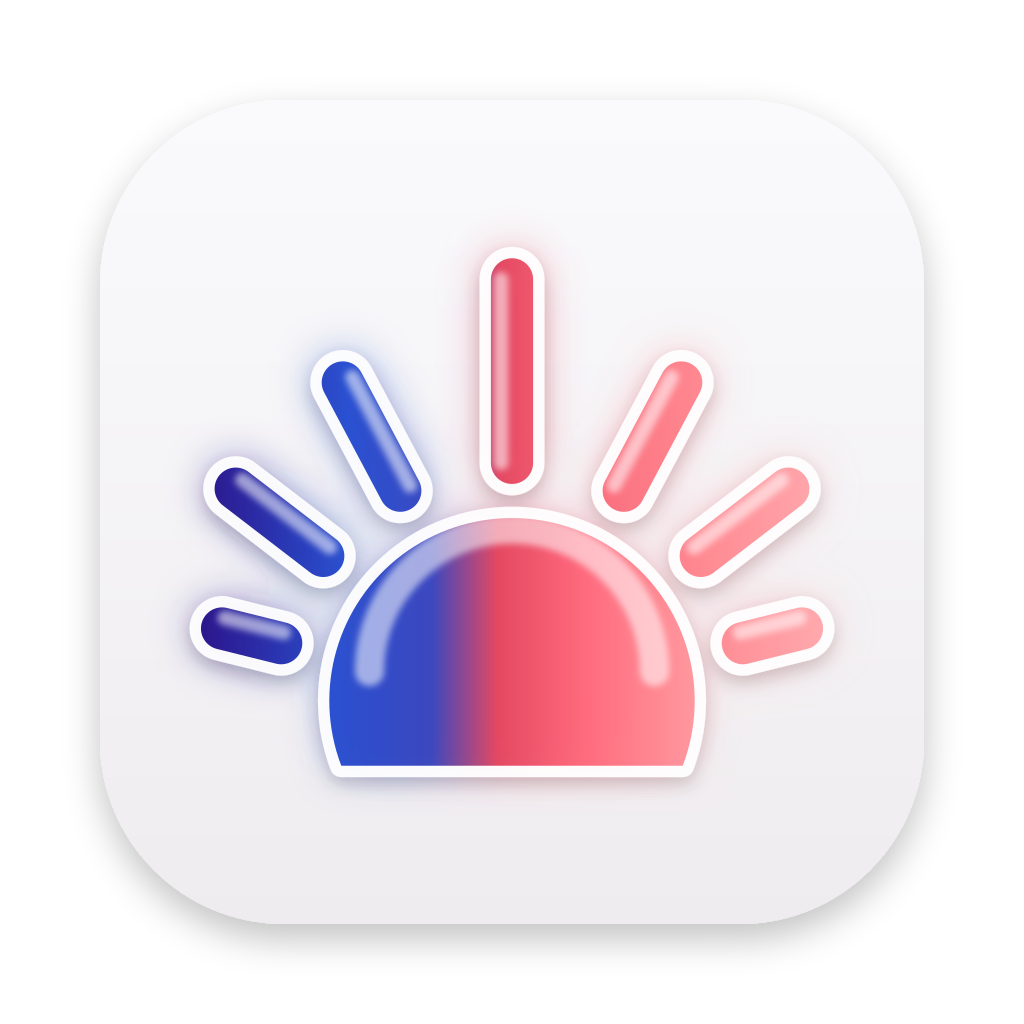
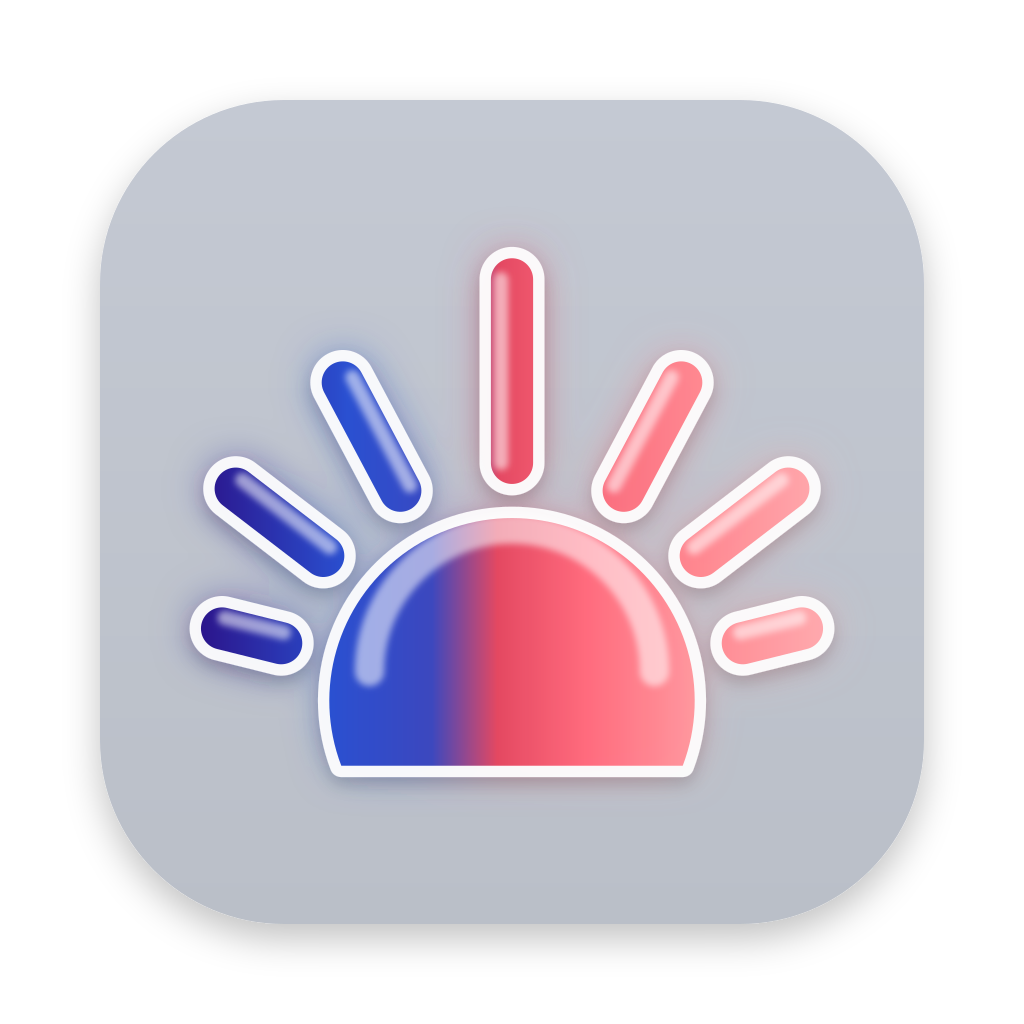
Put Sunrise Spectrum on Arc's gray tile
The owner asked for Spectrum's tile to use the gray Arc's icon sits on in
the Dock instead of near-white. Arc's asset catalog carries no tile color,
so the gray was sampled from the owner's Dock screenshot (about #BCC2CC
mid-tile). An Icon Composer fill of #C3C9D2 renders at about #BEC3CD there;
the flat fallback's tile is sampled from that render. Dark keeps its
near-black tile, and Amber keeps its cream.

diff --git a/src/main/app-icon-assets.js b/src/main/app-icon-assets.js
@@ -44,10 +44,11 @@ module.exports = {
   },
   // Sunrise Spectrum and Sunrise Amber: the Sunrise redrawn as a sun and
   // heavy rounded rays with no water lines, each a colored glass layer over a
-  // white rim, on a pale tile that macOS darkens in Dark. Spectrum runs deep blue
-  // through red to light pink, Amber is bronze. Their layers live in
+  // white rim, on a tile that macOS darkens in Dark. Spectrum runs deep blue
+  // through red to light pink on the cool gray Arc's icon sits on in the
+  // Dock; Amber is bronze on a warm cream. Their layers live in
   // build/app-icons/colorways (npm run brand:build).
-  'sunrise-spectrum': colorwayDefinition('SunriseSpectrum', 'spectrum', '#FBFAFD', '#3A3942'),
+  'sunrise-spectrum': colorwayDefinition('SunriseSpectrum', 'spectrum', '#C3C9D2', '#3A3942'),
   'sunrise-amber': colorwayDefinition('SunriseAmber', 'amber', '#FFF7EC', '#2E261C'),
 };
 

diff --git a/test/unit/app-icon.test.js b/test/unit/app-icon.test.js
@@ -114,7 +114,7 @@ test('Sunrise Spectrum and Amber stack a glass sun and rays over a white rim', (
     assert.equal(definition.nativeName, nativeName);
     assert.equal(definition.darkFlatIcon, `${id}-dark`);
     const document = createIconDocument(definition);
-    // A pale fill that Icon Composer darkens itself in Dark, unlike Gold's tiles.
+    // A light fill that Icon Composer darkens itself in Dark, unlike Gold's tiles.
     assert.equal(document['fill-specializations'][0].appearance, 'dark');
     assert.equal(document.groups.length, 2);
     const [mark, rim] = document.groups;

diff --git a/scripts/app-icon-colorways.js b/scripts/app-icon-colorways.js
@@ -47,7 +47,7 @@ const COLORWAYS = {
   spectrum: {
     rays: [[0, '#1A007F'], [0.24, '#1942CD'], [0.4, '#2C39B9'], [0.48, '#E23A55'], [0.6, '#F95B6E'], [0.8, '#FF7F88'], [1, '#FFA3A8']],
     sun: [[0, '#1942CD'], [0.28, '#2C39B9'], [0.46, '#E23A55'], [0.7, '#FF5F73'], [1, '#FF8F96']],
-    tile: ['#FAFAFC', '#EFECEF'],
+    tile: ['#C4C9D3', '#BABFC8'],
   },
   amber: {
     rays: [[0, '#B8692A'], [0.3, '#CD8530'], [0.5, '#D9A040'], [0.7, '#CD8530'], [1, '#B8692A']],

diff --git a/AGENTS.md b/AGENTS.md
@@ -176,7 +176,7 @@ a v0 mirror of the focused window so a rollback to 1.0.x keeps tabs).
 
 **Address input normalization** (`normalizeAddressInput()` in `main.js`) is a deliberately simple regex heuristic — has-a-scheme, looks-like-localhost, looks-like-a-domain, else treat as a search query against the engine selected in Settings (DuckDuckGo/Google/Bing/Brave/Kagi, or a custom address with `%s` stored in `searchEngineTemplate`; every search path resolves it through `settings.currentSearchEngine()`). It will misclassify some edge cases (e.g. paths with dots in query strings); that's a known, accepted limitation, not a bug to silently "fix" with a heavier URL parser unless asked. `handOffToOs()` (also in `main.js`) is checked ahead of it wherever a URL becomes a navigation target — page-initiated navigation, `window.open` children, the context menu's "Open Link" actions, and the address bar's raw typed text before `normalizeAddressInput()` ever sees it — so a bare `mailto:`/`tel:`/`facetime:`/`sms:` URI (which has no `://` and would otherwise be misread as a search query or a bogus domain) is handed to the OS instead. The same guard refuses page-initiated `chrome-extension:` navigation, even in inner frames, with one exception: Chromium's built-in PDF viewer (`chrome-extension://mhjfbmdgcfjbbpaeojofohoefgiehjai`, `PDF_VIEWER_ORIGIN` in `blocking-resources.js`) loads each document into a child frame from its own origin, so `installExternalNavigationHandlers` lets through exactly that viewer-initiated load, and `isBrowserResource()` counts the viewer's files as browser resources for both blockers. Refusing either leaves every PDF an empty viewer (the guard's refusal shipped in v1.20.0; fixed October 2026); `npm run test:pdf-viewer:desktop` (the browser-shortcuts CI job) fails if either regresses.
 
-**App icon:** macOS uses the Icon Composer artwork under `build/app-icons/`. Its selectable catalog is Sunrise, Sunrise Dark, Sunrise Gold, Sunrise Spectrum and Sunrise Amber; Sunrise is the default. Sunrise Gold is a cream glass mark over gold image layers, soft gold in Light and a polished metallic gold in Dark (a `hidden-specializations` swap, because Icon Composer darkens a plain fill by itself in Dark), all generated by `brand:build` into `build/app-icons/colorways/` and compiled by `after-pack-app-icons.js`; its flat fallbacks are `icon-sunrise-gold.png` and `icon-sunrise-gold-dark.png`, chosen by each definition's `darkFlatIcon`. In the live Dock a named stack follows Light and Dark, but only the bundle icon follows the Clear and Tinted icon styles, so in those styles (read from `AppleIconAppearanceTheme`, rechecked on activation and every 10 s) and for Sunrise itself `app-icon.js` clears the custom image with `dock.setIcon(null)` rather than loading a stack by name, which would freeze it. Gold is macOS-only (spec `docs/superpowers/specs/2026-10-19-sunrise-gold-icon-design.md`). Sunrise Spectrum (deep blue through red to light pink, after Arc's palette) and Sunrise Amber (bronze), requested by the owner on October 23, 2026 to sit closer to Arc's glass icon, redraw the Sunrise as a risen sun and seven heavy rounded rays, with the rays on the shipped artwork's proportions and no water lines (the owner's choices, so the sun reads larger): the sun and rays are two colored glass layers (`createIconDocument`'s `extraLayers`) over a white rim group (`rimImageName`, hidden in Tinted) on a pale fill that Icon Composer darkens in Dark. `scripts/app-icon-colorways.js` draws them and their flat fallbacks for `brand:build`; it is the one Sunrise surface not derived from the master below, by design. They are macOS-only too: the owner saw Windows and Linux drafts and kept them off those platforms for the switching limits described below (spec `docs/superpowers/specs/2026-10-23-sunrise-spectrum-amber-icons-design.md`). Every Sunrise surface (the macOS icon layer, the Windows, Linux and iOS icons, in-app marks, website favicons, logo, press kit and share cards) derives from the vector `assets/sunrise-mark.svg`, the owner's redraw of October 15, 2026, through `assets/sunrise-mark-4096.png`; `brand:build` renders that master only when writing and `assets/sunrise-mark.lock.json` pins both files, because librsvg output differs between platforms. Ink versions close the artwork's hairline between the disc and the top horizon bar. Windows uses the freestanding Sunrise mark from `build/app-icons/Icon.icon/Assets/sunrise-mark.png`; `npm run icons:windows:build` omits its three shortest reflection lines and produces the committed nine-frame (16–256px) `build/windows-icons/icon-sunrise.ico`. `icons:windows:check` guards those bytes, and `win.icon` embeds it into the executable and installed shortcut. Windows has no selectable icon catalog, deliberately: an October 19, 2026 VM spike (`docs/research/windows-runtime-app-icon-spike-2026-10-19.md`) found that only rewriting the installer-owned shortcuts changes the taskbar icon, and the owner chose to keep Sunrise Gold Mac-only and leave Windows as it is. Linux packages `build/icon.png`, a byte-copy of `assets/sunrise-app-icon.png`, which `npm run brand:build` also generates. Mark scale is not portable between compositions: the flat Dock PNGs in `src/renderer/pages/` (the `dock.setIcon` fallback for unpackaged and pre-macOS-26 runs) draw an 824px tile inset 100px into a 1024 canvas, while macOS paints the Icon Composer tile full-bleed, so `sunrise-mark.png` matches the flat mark's share of the visible tile rather than its canvas size; `test/unit/app-icon.test.js` fails if the two drift apart. Legacy B-monogram choices are retired: stale saved ids sanitize to Sunrise, and retired page-icon assets are excluded from the package. The B motif inside Mahjong tile artwork is an intentional nod to Blanc's origins and must remain. Retired source art must not be exposed in Settings, accepted as a saved choice, or compiled into the adaptive catalog unless the product decision changes again.
+**App icon:** macOS uses the Icon Composer artwork under `build/app-icons/`. Its selectable catalog is Sunrise, Sunrise Dark, Sunrise Gold, Sunrise Spectrum and Sunrise Amber; Sunrise is the default. Sunrise Gold is a cream glass mark over gold image layers, soft gold in Light and a polished metallic gold in Dark (a `hidden-specializations` swap, because Icon Composer darkens a plain fill by itself in Dark), all generated by `brand:build` into `build/app-icons/colorways/` and compiled by `after-pack-app-icons.js`; its flat fallbacks are `icon-sunrise-gold.png` and `icon-sunrise-gold-dark.png`, chosen by each definition's `darkFlatIcon`. In the live Dock a named stack follows Light and Dark, but only the bundle icon follows the Clear and Tinted icon styles, so in those styles (read from `AppleIconAppearanceTheme`, rechecked on activation and every 10 s) and for Sunrise itself `app-icon.js` clears the custom image with `dock.setIcon(null)` rather than loading a stack by name, which would freeze it. Gold is macOS-only (spec `docs/superpowers/specs/2026-10-19-sunrise-gold-icon-design.md`). Sunrise Spectrum (deep blue through red to light pink, after Arc's palette) and Sunrise Amber (bronze), requested by the owner on October 23, 2026 to sit closer to Arc's glass icon, redraw the Sunrise as a risen sun and seven heavy rounded rays, with the rays on the shipped artwork's proportions and no water lines (the owner's choices, so the sun reads larger): the sun and rays are two colored glass layers (`createIconDocument`'s `extraLayers`) over a white rim group (`rimImageName`, hidden in Tinted) on a light fill that Icon Composer darkens in Dark (Spectrum's is the cool gray `#C3C9D2` Arc's icon sits on in the Dock, Amber's a warm cream). `scripts/app-icon-colorways.js` draws them and their flat fallbacks for `brand:build`; it is the one Sunrise surface not derived from the master below, by design. They are macOS-only too: the owner saw Windows and Linux drafts and kept them off those platforms for the switching limits described below (spec `docs/superpowers/specs/2026-10-23-sunrise-spectrum-amber-icons-design.md`). Every Sunrise surface (the macOS icon layer, the Windows, Linux and iOS icons, in-app marks, website favicons, logo, press kit and share cards) derives from the vector `assets/sunrise-mark.svg`, the owner's redraw of October 15, 2026, through `assets/sunrise-mark-4096.png`; `brand:build` renders that master only when writing and `assets/sunrise-mark.lock.json` pins both files, because librsvg output differs between platforms. Ink versions close the artwork's hairline between the disc and the top horizon bar. Windows uses the freestanding Sunrise mark from `build/app-icons/Icon.icon/Assets/sunrise-mark.png`; `npm run icons:windows:build` omits its three shortest reflection lines and produces the committed nine-frame (16–256px) `build/windows-icons/icon-sunrise.ico`. `icons:windows:check` guards those bytes, and `win.icon` embeds it into the executable and installed shortcut. Windows has no selectable icon catalog, deliberately: an October 19, 2026 VM spike (`docs/research/windows-runtime-app-icon-spike-2026-10-19.md`) found that only rewriting the installer-owned shortcuts changes the taskbar icon, and the owner chose to keep Sunrise Gold Mac-only and leave Windows as it is. Linux packages `build/icon.png`, a byte-copy of `assets/sunrise-app-icon.png`, which `npm run brand:build` also generates. Mark scale is not portable between compositions: the flat Dock PNGs in `src/renderer/pages/` (the `dock.setIcon` fallback for unpackaged and pre-macOS-26 runs) draw an 824px tile inset 100px into a 1024 canvas, while macOS paints the Icon Composer tile full-bleed, so `sunrise-mark.png` matches the flat mark's share of the visible tile rather than its canvas size; `test/unit/app-icon.test.js` fails if the two drift apart. Legacy B-monogram choices are retired: stale saved ids sanitize to Sunrise, and retired page-icon assets are excluded from the package. The B motif inside Mahjong tile artwork is an intentional nod to Blanc's origins and must remain. Retired source art must not be exposed in Settings, accepted as a saved choice, or compiled into the adaptive catalog unless the product decision changes again.
 
 ## Cross-platform parity infrastructure (`spec/`, `tokens/`, `settings-schema/`, `copy/`, `test/desktop/`)
 

diff --git a/CLAUDE.md b/CLAUDE.md
@@ -160,7 +160,7 @@ a v0 mirror of the focused window so a rollback to 1.0.x keeps tabs).
 
 **Address input normalization** (`normalizeAddressInput()` in `main.js`) is a deliberately simple regex heuristic — has-a-scheme, looks-like-localhost, looks-like-a-domain, else treat as a search query against the engine selected in Settings (DuckDuckGo/Google/Bing/Brave/Kagi, or a custom address with `%s` stored in `searchEngineTemplate`; every search path resolves it through `settings.currentSearchEngine()`). It will misclassify some edge cases (e.g. paths with dots in query strings); that's a known, accepted limitation, not a bug to silently "fix" with a heavier URL parser unless asked. `handOffToOs()` (also in `main.js`) is checked ahead of it wherever a URL becomes a navigation target — page-initiated navigation, `window.open` children, the context menu's "Open Link" actions, and the address bar's raw typed text before `normalizeAddressInput()` ever sees it — so a bare `mailto:`/`tel:`/`facetime:`/`sms:` URI (which has no `://` and would otherwise be misread as a search query or a bogus domain) is handed to the OS instead. The same guard refuses page-initiated `chrome-extension:` navigation, even in inner frames, with one exception: Chromium's built-in PDF viewer (`chrome-extension://mhjfbmdgcfjbbpaeojofohoefgiehjai`, `PDF_VIEWER_ORIGIN` in `blocking-resources.js`) loads each document into a child frame from its own origin, so `installExternalNavigationHandlers` lets through exactly that viewer-initiated load, and `isBrowserResource()` counts the viewer's files as browser resources for both blockers. Refusing either leaves every PDF an empty viewer (the guard's refusal shipped in v1.20.0; fixed October 2026); `npm run test:pdf-viewer:desktop` (the browser-shortcuts CI job) fails if either regresses.
 
-**App icon:** macOS uses the Icon Composer artwork under `build/app-icons/`. Its selectable catalog is Sunrise, Sunrise Dark, Sunrise Gold, Sunrise Spectrum and Sunrise Amber; Sunrise is the default. Sunrise Gold is a cream glass mark over gold image layers, soft gold in Light and a polished metallic gold in Dark (a `hidden-specializations` swap, because Icon Composer darkens a plain fill by itself in Dark), all generated by `brand:build` into `build/app-icons/colorways/` and compiled by `after-pack-app-icons.js`; its flat fallbacks are `icon-sunrise-gold.png` and `icon-sunrise-gold-dark.png`, chosen by each definition's `darkFlatIcon`. In the live Dock a named stack follows Light and Dark, but only the bundle icon follows the Clear and Tinted icon styles, so in those styles (read from `AppleIconAppearanceTheme`, rechecked on activation and every 10 s) and for Sunrise itself `app-icon.js` clears the custom image with `dock.setIcon(null)` rather than loading a stack by name, which would freeze it. Gold is macOS-only (spec `docs/superpowers/specs/2026-10-19-sunrise-gold-icon-design.md`). Sunrise Spectrum (deep blue through red to light pink, after Arc's palette) and Sunrise Amber (bronze), requested by the owner on October 23, 2026 to sit closer to Arc's glass icon, redraw the Sunrise as a risen sun and seven heavy rounded rays, with the rays on the shipped artwork's proportions and no water lines (the owner's choices, so the sun reads larger): the sun and rays are two colored glass layers (`createIconDocument`'s `extraLayers`) over a white rim group (`rimImageName`, hidden in Tinted) on a pale fill that Icon Composer darkens in Dark. `scripts/app-icon-colorways.js` draws them and their flat fallbacks for `brand:build`; it is the one Sunrise surface not derived from the master below, by design. They are macOS-only too: the owner saw Windows and Linux drafts and kept them off those platforms for the switching limits described below (spec `docs/superpowers/specs/2026-10-23-sunrise-spectrum-amber-icons-design.md`). Every Sunrise surface (the macOS icon layer, the Windows, Linux and iOS icons, in-app marks, website favicons, logo, press kit and share cards) derives from the vector `assets/sunrise-mark.svg`, the owner's redraw of October 15, 2026, through `assets/sunrise-mark-4096.png`; `brand:build` renders that master only when writing and `assets/sunrise-mark.lock.json` pins both files, because librsvg output differs between platforms. Ink versions close the artwork's hairline between the disc and the top horizon bar. Windows uses the freestanding Sunrise mark from `build/app-icons/Icon.icon/Assets/sunrise-mark.png`; `npm run icons:windows:build` omits its three shortest reflection lines and produces the committed nine-frame (16–256px) `build/windows-icons/icon-sunrise.ico`. `icons:windows:check` guards those bytes, and `win.icon` embeds it into the executable and installed shortcut. Windows has no selectable icon catalog, deliberately: an October 19, 2026 VM spike (`docs/research/windows-runtime-app-icon-spike-2026-10-19.md`) found that only rewriting the installer-owned shortcuts changes the taskbar icon, and the owner chose to keep Sunrise Gold Mac-only and leave Windows as it is. Linux packages `build/icon.png`, a byte-copy of `assets/sunrise-app-icon.png`, which `npm run brand:build` also generates. Mark scale is not portable between compositions: the flat Dock PNGs in `src/renderer/pages/` (the `dock.setIcon` fallback for unpackaged and pre-macOS-26 runs) draw an 824px tile inset 100px into a 1024 canvas, while macOS paints the Icon Composer tile full-bleed, so `sunrise-mark.png` matches the flat mark's share of the visible tile rather than its canvas size; `test/unit/app-icon.test.js` fails if the two drift apart. Legacy B-monogram choices are retired: stale saved ids sanitize to Sunrise, and retired page-icon assets are excluded from the package. The B motif inside Mahjong tile artwork is an intentional nod to Blanc's origins and must remain. Retired source art must not be exposed in Settings, accepted as a saved choice, or compiled into the adaptive catalog unless the product decision changes again.
+**App icon:** macOS uses the Icon Composer artwork under `build/app-icons/`. Its selectable catalog is Sunrise, Sunrise Dark, Sunrise Gold, Sunrise Spectrum and Sunrise Amber; Sunrise is the default. Sunrise Gold is a cream glass mark over gold image layers, soft gold in Light and a polished metallic gold in Dark (a `hidden-specializations` swap, because Icon Composer darkens a plain fill by itself in Dark), all generated by `brand:build` into `build/app-icons/colorways/` and compiled by `after-pack-app-icons.js`; its flat fallbacks are `icon-sunrise-gold.png` and `icon-sunrise-gold-dark.png`, chosen by each definition's `darkFlatIcon`. In the live Dock a named stack follows Light and Dark, but only the bundle icon follows the Clear and Tinted icon styles, so in those styles (read from `AppleIconAppearanceTheme`, rechecked on activation and every 10 s) and for Sunrise itself `app-icon.js` clears the custom image with `dock.setIcon(null)` rather than loading a stack by name, which would freeze it. Gold is macOS-only (spec `docs/superpowers/specs/2026-10-19-sunrise-gold-icon-design.md`). Sunrise Spectrum (deep blue through red to light pink, after Arc's palette) and Sunrise Amber (bronze), requested by the owner on October 23, 2026 to sit closer to Arc's glass icon, redraw the Sunrise as a risen sun and seven heavy rounded rays, with the rays on the shipped artwork's proportions and no water lines (the owner's choices, so the sun reads larger): the sun and rays are two colored glass layers (`createIconDocument`'s `extraLayers`) over a white rim group (`rimImageName`, hidden in Tinted) on a light fill that Icon Composer darkens in Dark (Spectrum's is the cool gray `#C3C9D2` Arc's icon sits on in the Dock, Amber's a warm cream). `scripts/app-icon-colorways.js` draws them and their flat fallbacks for `brand:build`; it is the one Sunrise surface not derived from the master below, by design. They are macOS-only too: the owner saw Windows and Linux drafts and kept them off those platforms for the switching limits described below (spec `docs/superpowers/specs/2026-10-23-sunrise-spectrum-amber-icons-design.md`). Every Sunrise surface (the macOS icon layer, the Windows, Linux and iOS icons, in-app marks, website favicons, logo, press kit and share cards) derives from the vector `assets/sunrise-mark.svg`, the owner's redraw of October 15, 2026, through `assets/sunrise-mark-4096.png`; `brand:build` renders that master only when writing and `assets/sunrise-mark.lock.json` pins both files, because librsvg output differs between platforms. Ink versions close the artwork's hairline between the disc and the top horizon bar. Windows uses the freestanding Sunrise mark from `build/app-icons/Icon.icon/Assets/sunrise-mark.png`; `npm run icons:windows:build` omits its three shortest reflection lines and produces the committed nine-frame (16–256px) `build/windows-icons/icon-sunrise.ico`. `icons:windows:check` guards those bytes, and `win.icon` embeds it into the executable and installed shortcut. Windows has no selectable icon catalog, deliberately: an October 19, 2026 VM spike (`docs/research/windows-runtime-app-icon-spike-2026-10-19.md`) found that only rewriting the installer-owned shortcuts changes the taskbar icon, and the owner chose to keep Sunrise Gold Mac-only and leave Windows as it is. Linux packages `build/icon.png`, a byte-copy of `assets/sunrise-app-icon.png`, which `npm run brand:build` also generates. Mark scale is not portable between compositions: the flat Dock PNGs in `src/renderer/pages/` (the `dock.setIcon` fallback for unpackaged and pre-macOS-26 runs) draw an 824px tile inset 100px into a 1024 canvas, while macOS paints the Icon Composer tile full-bleed, so `sunrise-mark.png` matches the flat mark's share of the visible tile rather than its canvas size; `test/unit/app-icon.test.js` fails if the two drift apart. Legacy B-monogram choices are retired: stale saved ids sanitize to Sunrise, and retired page-icon assets are excluded from the package. The B motif inside Mahjong tile artwork is an intentional nod to Blanc's origins and must remain. Retired source art must not be exposed in Settings, accepted as a saved choice, or compiled into the adaptive catalog unless the product decision changes again.
 
 ## Cross-platform parity infrastructure (`spec/`, `tokens/`, `settings-schema/`, `copy/`, `test/desktop/`)
 

diff --git a/docs/superpowers/specs/2026-10-23-sunrise-spectrum-amber-icons-design.md b/docs/superpowers/specs/2026-10-23-sunrise-spectrum-amber-icons-design.md
@@ -4,7 +4,7 @@ Date: 2026-10-23. Status: approved; Mac only.
 
 ## Intent
 
-Add two macOS app icons that sit closer to Arc's Liquid Glass icon: **Sunrise Spectrum** (deep blue through red to light pink) and **Sunrise Amber** (bronze). Both redraw the Sunrise's sun and rays, on the shipped artwork's proportions, in heavy rounded strokes and with no water lines. The sun and rays are colored Icon Composer glass over a white rim, on a pale tile. Users choose them in Settings → General → App icon, after Sunrise Gold.
+Add two macOS app icons that sit closer to Arc's Liquid Glass icon: **Sunrise Spectrum** (deep blue through red to light pink) and **Sunrise Amber** (bronze). Both redraw the Sunrise's sun and rays, on the shipped artwork's proportions, in heavy rounded strokes and with no water lines. The sun and rays are colored Icon Composer glass over a white rim, on a light tile: Arc's cool gray for Spectrum, cream for Amber. Users choose them in Settings → General → App icon, after Sunrise Gold.
 
 ## What the owner decided
 
@@ -19,10 +19,11 @@ Add two macOS app icons that sit closer to Arc's Liquid Glass icon: **Sunrise Sp
 - **A risen sun.** At those exact proportions the sun still read too small and short, because the glass rays are much heavier than the artwork's hairlines. Three options were compared (`sun-size-options.png`): a bigger half disc, a risen sun, and a risen sun with slimmer rays. The owner chose **B, the risen sun at the current ray weight**.
 - **Colors.** The owner asked for Spectrum to come closer to Arc's coloring, with more deep blue and purple, and for Amber to be darker and bronzer, since it read too light in Light mode. From three palettes each (`color-options.png`), the owner chose **P2, deeper indigo and purple**, and **Q2, bronze**.
 - **Arc's red middle.** With P2 the owner missed Arc's brighter red and pink. Two more rounds followed: more coral (`spectrum-pink-options.png`), then Arc's order of blue, red, then light pink (`spectrum-red-options.png`). The owner chose **S2**: blue left rays, Arc's deeper red at the center ray and the middle of the sun, fading to light pink on the right. Amber stays Q2.
+- **Arc's gray tile.** The owner then asked for Spectrum's tile to use the gray Arc's icon sits on in the Dock, in place of near-white. Amber keeps its cream, and Dark is unchanged.
 
 ## Goals
 
-1. On packaged macOS 26+, choosing either icon makes the Dock show its glass stack from the bundle's `Assets.car`. Light shows the pale tile; in Dark, macOS darkens the fill to near-black.
+1. On packaged macOS 26+, choosing either icon makes the Dock show its glass stack from the bundle's `Assets.car`. Light shows the light tile; in Dark, macOS darkens the fill to near-black.
 2. In unpackaged and pre-macOS 26 runs, the Dock shows a flat PNG for the current appearance, the same fallback the other icons have.
 3. Both appear in the existing Mac-only App icon picker, after Sunrise Gold.
 
@@ -57,7 +58,7 @@ Add two macOS app icons that sit closer to Arc's Liquid Glass icon: **Sunrise Sp
 | front | `<prefix>-sun.png`, `<prefix>-rays.png` | **true** | `specular: true`, `lighting: "individual"`, shadow `layer-color` 0.5, translucency 0.15 |
 | back | `<prefix>-rim.png`, the white outline 14 px (before scaling) beyond every stroke | false | hidden in `tinted` (Clear and Tinted); shadow `neutral` 0.3 |
 
-- The fill is `automatic-gradient`: Spectrum `#FBFAFD`, Amber `#FFF7EC`, with dark specializations `#3A3942` and `#2E261C`.
+- The fill is `automatic-gradient`: Spectrum `#C3C9D2`, Amber `#FFF7EC`, with dark specializations `#3A3942` and `#2E261C`. Spectrum's gray renders about `#BEC3CD` mid-tile, matching the gray Arc's icon sits on in the owner's Dock (about `#BCC2CC`, sampled from a screenshot, since Arc's asset catalog carries no tile color).
 - Icon Composer renders both Dark tiles near-black (`#1F1F1E` to `#100F0F`), which the owner approved in `glass-proof.png`.
 - `createIconDocument` gains `extraLayers` (more layers in the front group) and `rimImageName` (the back group). Existing colorways are unchanged.
 

diff --git a/spec/features.md b/spec/features.md
@@ -419,7 +419,7 @@ From the desktop `DEFAULTS`:
   system appearance), `sunrise-dark`, `sunrise-gold` (soft gold in Light,
   polished gold in Dark), `sunrise-spectrum` (a glass sun and rays from deep blue
   through red to light pink) and `sunrise-amber` (the same in bronze); the last two sit
-  on a pale tile that darkens in Dark. Older ids, including the monogram `gold`, are
+  on a light tile (cool gray for Spectrum, cream for Amber) that darkens in Dark. Older ids, including the monogram `gold`, are
   retired; any stale or hand-set retired id falls back to `sunrise`.
 - Patron is optional support and unlocks nothing: Blanc Spaces (F41) is free
   for everyone, and icon variants were never a Patron benefit. Renderers only
